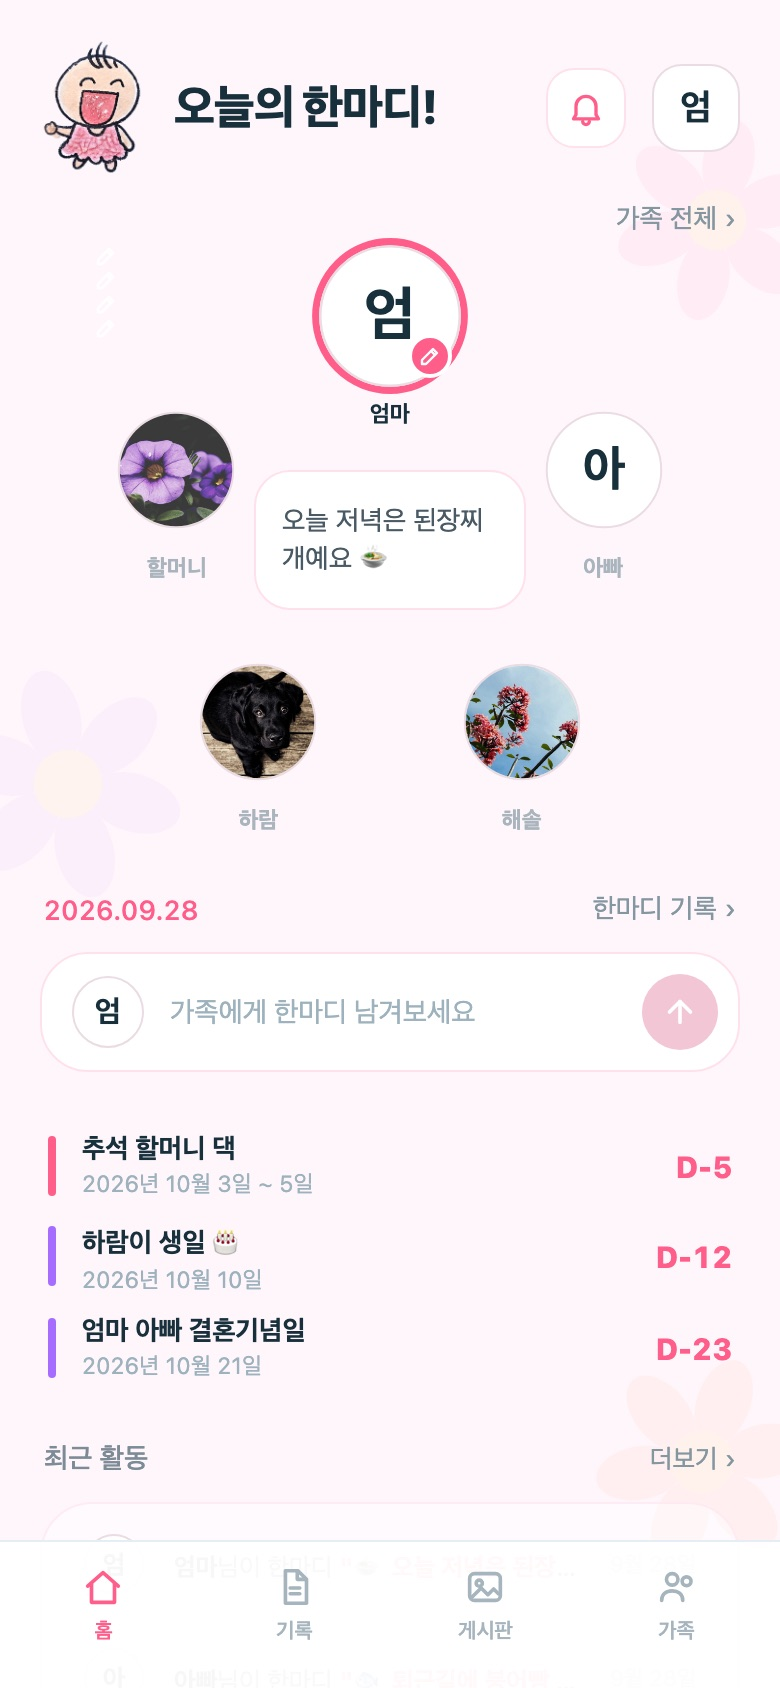
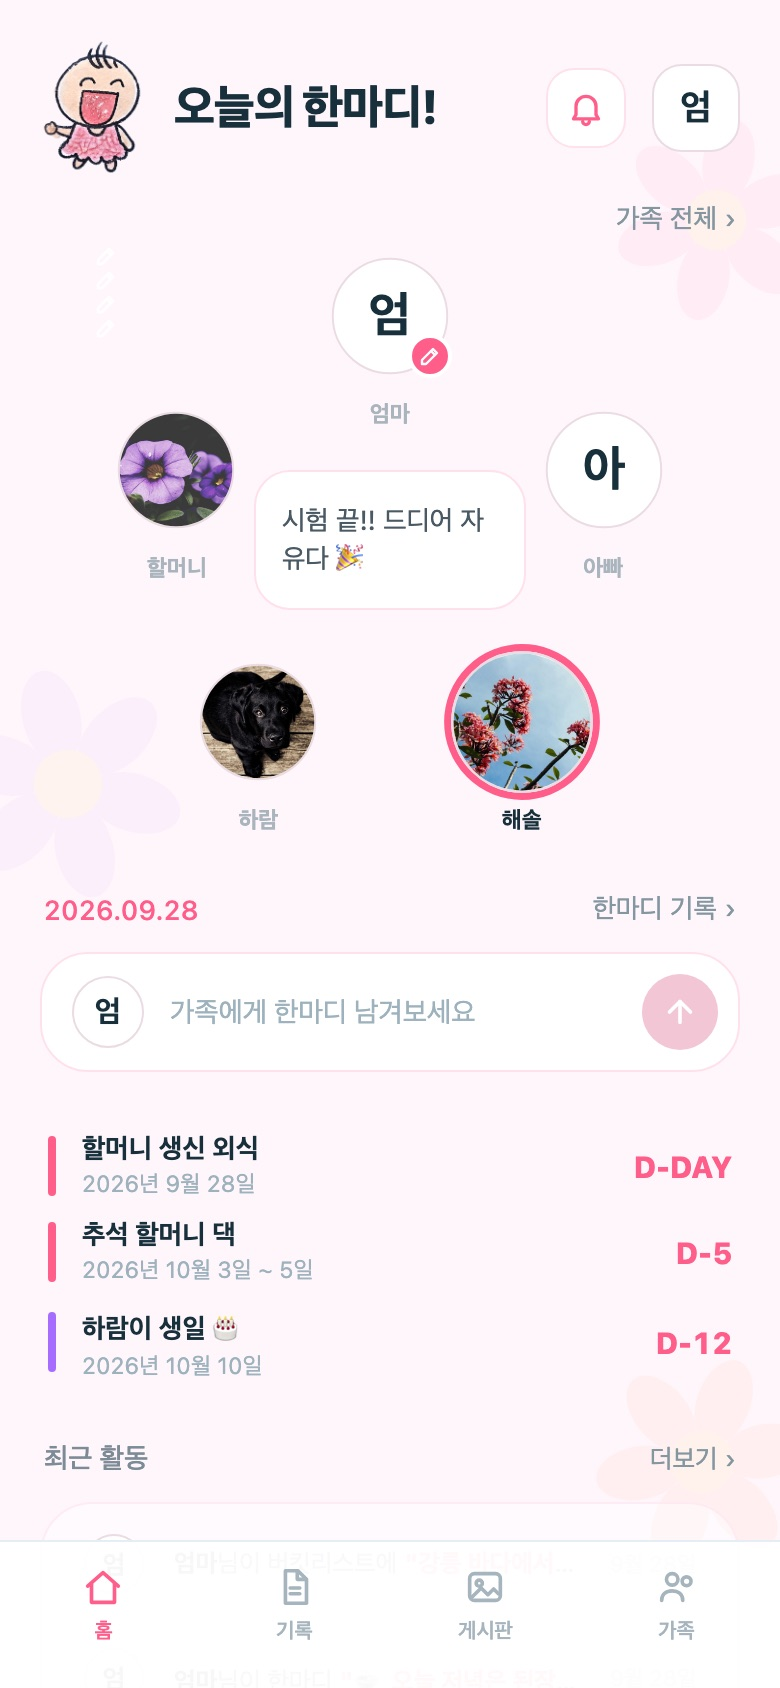
docs: README 홈을 위·아래 두 장으로, 가족 사전은 버킷리스트 옆으로
- 홈 아래쪽(D-day·최근 활동) 화면 추가, 홈 위쪽도 같은 데이터로 다시 찍음
- 가족 사전을 버킷리스트 줄 왼쪽으로 옮김

diff --git a/README.md b/README.md
@@ -21,17 +21,17 @@
 ## 화면
 이 API 로 동작하는 앱 화면입니다.
 
-| 홈 | 가족 사전 |
+| 홈 | 홈 (아래) |
 |---|---|
-| <img src="docs/images/home.jpg" alt="오늘의 한마디와 D-day, 최근 활동이 있는 홈 화면" width="240"> | <img src="docs/images/dict.jpg" alt="가나다순으로 정리된 가족 사전 화면" width="240"> |
+| <img src="docs/images/home.jpg" alt="가족들의 오늘의 한마디가 있는 홈 화면 위쪽" width="240"> | <img src="docs/images/home-bottom.jpg" alt="D-day 일정과 최근 활동이 있는 홈 화면 아래쪽" width="240"> |
 
 홈에서는 가족들의 오늘의 한마디, 다가오는 D-day, 최근 활동을 한 번에 봅니다.
+
+| 가족 사전 | 버킷리스트 | 빈 칸 채우기 |
+|---|---|---|
+| <img src="docs/images/dict.jpg" alt="가나다순으로 정리된 가족 사전 화면" width="240"> | <img src="docs/images/bucket.jpg" alt="10칸 중 3칸을 이룬 가족 버킷리스트" width="240"> | <img src="docs/images/bucket-add.jpg" alt="8번 칸에 하고 싶은 일을 적는 화면" width="240"> |
+
 사전에는 우리 가족만 쓰는 말이 가나다순으로 쌓입니다.
-
-| 버킷리스트 | 빈 칸 채우기 |
-|---|---|
-| <img src="docs/images/bucket.jpg" alt="10칸 중 3칸을 이룬 가족 버킷리스트" width="240"> | <img src="docs/images/bucket-add.jpg" alt="8번 칸에 하고 싶은 일을 적는 화면" width="240"> |
-
 버킷리스트는 빈 번호 칸을 골라 하고 싶은 일을 적습니다.
 이룬 칸은 체크하고 그날의 일상 글을 연결하면, 목록에 사진이 함께 붙습니다.
 
